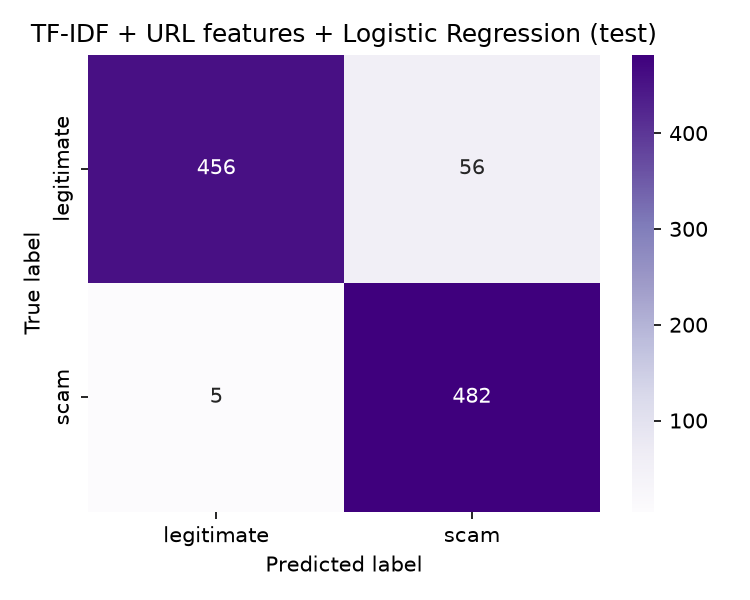
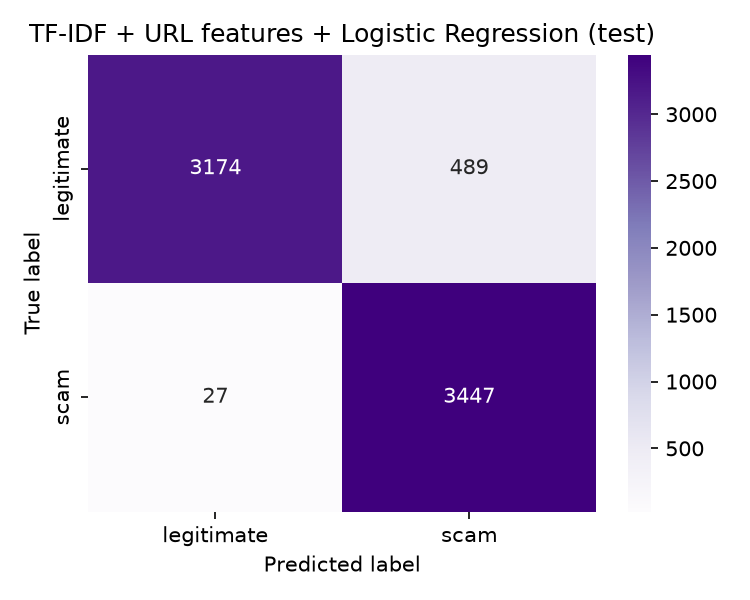
Report full-corpus LLM chat-register rewrite metrics (71,370 rows, C=0.25).

diff --git a/README.md b/README.md
@@ -223,7 +223,7 @@ uv run ruff check scripts src tests
 
 `rewrite_chat_register_llm.py` is the intent-preserving path (`rewrite_method = llm_intent_v1` when the model writes a real DM, `rule_based_v1_fallback` when it refuses twice). A local Ollama model (default **llama3.2:latest**, Llama 3.2 3B instruct, already pulled on this machine) reads each source message and writes a new 1–3 sentence WhatsApp/iMessage/DM with the same intent, facts, and binary label. Target length is about 40–600 characters of chat prose (`num_predict=400`; the LLM-only cap is 600). URLs may make the stored DM longer and are never sliced. This is not header-stripping plus truncation. Python post-conditions re-attach any original URL the model omitted (verbatim; no shorten/resolve/replace). Legitimate rows cannot gain phishing verbs that were absent from the source. Llama safety refusals are retried once with a research/register-only prompt, then that row falls back to `rule_based_v1` so labeled scams are not dropped. Refusal strings are never stored as training text. The locked file `data/chat_eval/chat_style_eval_v1.csv` is never read, rewritten, or merged. Corpus text is sent only to `http://127.0.0.1:11434` (WSL2 Ollama); cloud LLM APIs are refused.
 
-Checkpointing uses `data/processed_chat_llm/_rewrite_checkpoint.sqlite` so a crash can `--resume` without redoing finished rows. Runtime on this WSL2 box (RTX 4060 8GB, llama3.2:latest): ~0.4–0.8s/row after GPU warmup. Full processed corpora (~71k rows) ≈ 8–12 hours; default still attempts the full set. `--limit N` is a smoke run. `--stratified-sample 10000` is a label+source-stratified subset. Reported metrics below used that 10k sample (`random_state=42`) with the refusal-fallback path. Every non-empty source row was kept through the LLM or fallback (`llm_failed=0`); exact-text dedup dropped 13 rows (**9,987** left: 9,898 `llm_intent_v1`, 89 `rule_based_v1_fallback`). A crash at 5,300 rows was resumed from the SQLite sidecar. The previous 10k pass stored some refusals as `status=ok` and later filtered 1,577 of them at CSV write (8,337 rows); that cull is gone.
+Checkpointing uses `data/processed_chat_llm/_rewrite_checkpoint.sqlite` so a crash can `--resume` without redoing finished rows. Runtime on this WSL2 box (RTX 4060 8GB, llama3.2:latest): ~0.4–0.8s/row after GPU warmup. Full processed corpora (~71k rows) ≈ 8–12 hours per uninterrupted pass; this full run was resumed twice (10k sample → stop near 16k → finish). `--limit N` is a smoke run. `--stratified-sample 10000` is a label+source-stratified subset. Reported metrics below used the **full** processed set with the refusal-fallback path: 71,813 in, `dropped_empty=0`, `llm_failed=1`, then exact-text dedup dropped 442 rows (**71,370** left: 36,629 legitimate / 34,741 scam; 70,860 `llm_intent_v1`, 510 `rule_based_v1_fallback`). Checkpoint before dedup: 71,170 `llm_ok` and 642 `llm_refused_then_fallback`. See `ml/reports/rewrite_chat_register_llm_log.json`. Refusals no longer cull labeled scams.
 
 `train_baseline.py` defaults to `data/processed_chat_llm`. Pass `--processed-dir data/processed_chat` for rule_based_v1 or `--processed-dir data/processed` for original email/SMS. It takes a stratified 70% train / 20% validation / 10% test split (`random_state=42`), fits TF-IDF + local URL features + `LogisticRegression` on TRAIN only, searches `C ∈ {0.25, 1.0, 4.0}` and `predict_proba[:, scam]` thresholds `0.30, 0.35, …, 0.70` on VALIDATION only, **maximizes scam recall subject to legitimate recall ≥ 0.85** (at most ~15% of real ham warned), freezes those choices, and scores TEST once. Reported numbers in `reports/baseline_metrics.json` are TEST; `reports/val_metrics.json` is the audit of the operating point. Use `--no-tune-threshold` to keep `C=1.0` and threshold `0.5`. `live_url_reputation` remains false.
 
@@ -267,43 +267,47 @@ The baseline and DistilBERT tracks report precision, recall, F1, confusion matri
 
 ### TF-IDF + local URL features + Logistic Regression (current)
 
-Training text is the `llm_intent_v1` rewrite of UCI SMS Spam, Enron-Spam, SpamAssassin, Nazario phishing, and the Kaggle phishing-email compilation, with `rule_based_v1_fallback` only on rows where Llama refused twice. Local Ollama **llama3.2:latest** (Llama 3.2 3B instruct, already pulled) paraphrased each source into a new WhatsApp/iMessage/DM with the same intent, facts, and binary label (`num_predict=400`, LLM cap 600 characters of prose; URLs extra and never sliced). This is not header-stripping plus truncation. Python post-conditions copy every original URL character-for-character (the rewrite log records 1,226 URL re-attachments; every original URL still appears in the stored DM). Labels are never flipped. `data/chat_eval/chat_style_eval_v1.csv` is never read. Assistant refusals ("I cannot write a message that could be used in a scam") are retried, then rewritten with `rule_based_v1` for that row; they are never stored as training DMs.
+Training text is the `llm_intent_v1` rewrite of UCI SMS Spam, Enron-Spam, SpamAssassin, Nazario phishing, and the Kaggle phishing-email compilation, with `rule_based_v1_fallback` only on rows where Llama refused twice. Local Ollama **llama3.2:latest** (Llama 3.2 3B instruct, already pulled) paraphrased each source into a new WhatsApp/iMessage/DM with the same intent, facts, and binary label (`num_predict=400`, LLM cap 600 characters of prose; URLs extra and never sliced). This is not header-stripping plus truncation. Python post-conditions copy every original URL character-for-character (13,188 URL-bearing rows all still contain every original URL; 8,801 needed a Python append). Labels are never flipped. `data/chat_eval/chat_style_eval_v1.csv` is never read. Assistant refusals ("I cannot write a message that could be used in a scam") are retried, then rewritten with `rule_based_v1` for that row; they are never stored as training DMs.
 
-The default CLI still attempts the full processed corpora (~71,813 rows). These reported numbers used `--stratified-sample 10000` (`random_state=42`) because a full GPU run is ~8–12 hours. After exact-text dedup only: **9,987** rows in `data/processed_chat_llm/` (5,121 legitimate / 4,866 scam; 9,898 LLM + 89 fallback). Checkpoint totals before dedup: 9,910 `llm_ok` and 90 `llm_refused_then_fallback` (`llm_failed=0`, `dropped_empty=0`). See `ml/reports/rewrite_chat_register_llm_log.json`. Refusals no longer cull labeled scams (the previous 10k pass dropped 1,577 refusal strings at CSV write and kept 8,337 rows, which was ham-heavy because explicit scams were the rows Llama refused).
+These reported numbers used the **full** processed corpora (71,813 source rows → **71,370** training rows after one `llm_failed` and 442 exact-text duplicates). A 10k stratified sample was trained first; the full rewrite was resumed from that checkpoint (stop near progress 16k, then finished). See `ml/reports/rewrite_chat_register_llm_log.json`.
 
 The classifier is unchanged: `FeatureUnion(TfidfVectorizer(unigrams+bigrams, sublinear_tf), StandardScaler(URL features))` → `LogisticRegression(class_weight="balanced")`. URL features are on-device lexical/structural only: `has_url`, `url_count`, `uses_https`, `host_is_ip`, `has_at_sign`, `num_dots`, `num_hyphens`, `num_digits`, `url_length`, `path_length`, `num_subdomains`, `is_known_shortener` (frozen list: bit.ly, t.co, tinyurl, goo.gl, ow.ly, …), `suspicious_tld` (frozen list), `path_has_login_verify_update_password_keywords`, `punycode_xn`, `digits_in_host`, plus max/mean aggregates. There is **no live URL reputation**: no HTTP fetch, no shortener resolve, no VirusTotal / Safe Browsing / PhishTank. A message with no URL gets a zero URL vector (`has_url=0`); the text model still runs. A present https link is not automatic evidence of a scam.
 
-Stratified 70/20/10 split (`random_state=42`): 6,990 train / 1,998 validation / 999 test. Fit on TRAIN only. On VALIDATION, search `C ∈ {0.25, 1.0, 4.0}` and decision thresholds `0.30 … 0.70` (step 0.05). **Selection rule:** maximize scam recall subject to legitimate recall ≥ 0.85 (warn on at most ~15% of real ham; a few false alarms are acceptable, flooding ham is not). If that floor is infeasible, pick the point with best scam F1 and say so. Chosen operating point (`ml/reports/val_metrics.json`): **C = 4.0**, **threshold = 0.30**, reason `max_scam_recall_subject_to_legit_recall_floor` (floor feasible; validation legitimate recall 0.879, scam recall 0.978). Those choices are frozen, then TEST is scored once (`ml/reports/baseline_metrics.json`):
+Stratified 70/20/10 split (`random_state=42`): 49,958 train / 14,275 validation / 7,137 test. Fit on TRAIN only. On VALIDATION, search `C ∈ {0.25, 1.0, 4.0}` and decision thresholds `0.30 … 0.70` (step 0.05). **Selection rule:** maximize scam recall subject to legitimate recall ≥ 0.85 (warn on at most ~15% of real ham; a few false alarms are acceptable, flooding ham is not). If that floor is infeasible, pick the point with best scam F1 and say so. Chosen operating point (`ml/reports/val_metrics.json`): **C = 0.25**, **threshold = 0.30**, reason `max_scam_recall_subject_to_legit_recall_floor` (floor feasible; validation legitimate recall 0.869, scam recall 0.988). On the earlier 10k sample the same rule had picked C=4.0; with the full corpus C=0.25 still meets the ham-recall floor and wins on scam recall. Those choices are frozen, then TEST is scored once (`ml/reports/baseline_metrics.json`):
 
 | Class | Precision | Recall | F1 |
 | --- | --- | --- | --- |
-| legitimate | 0.989 | 0.891 | 0.937 |
-| scam | 0.896 | 0.990 | 0.940 |
+| legitimate | 0.992 | 0.867 | 0.925 |
+| scam | 0.876 | 0.992 | 0.930 |
 
 ![Baseline confusion matrix](ml/reports/confusion_matrix.png)
 
-TEST confusion matrix (rows = true, columns = predicted, order `[legitimate, scam]`): `[[456, 56], [5, 482]]` — 56 false positives out of 512 legitimate test rows and 5 missed scams out of 487 scam test rows.
+TEST confusion matrix (rows = true, columns = predicted, order `[legitimate, scam]`): `[[3174, 489], [27, 3447]]` — 489 false positives out of 3,663 legitimate test rows and 27 missed scams out of 3,474 scam test rows.
 
-**Threshold reasoning:** the product UX is a non-blocking warning, so missed scams are costlier than extra warnings, but most ordinary messages must still go through unwarned. The previous legitimate-*precision* floor (≥ 0.90) only required that "predicted legitimate" be trustworthy; it was feasible at C=0.25 / threshold=0.30 while warning on ~34% of in-domain ham and 86/100 locked chat ham. Switching the VAL floor to legitimate *recall* ≥ 0.85 rejects that over-regularized point. C=4.0 at the same threshold 0.30 still meets the ham-recall floor (VAL 0.879) and keeps scam recall high (VAL 0.978, TEST 0.990). TEST legitimate recall is 0.891 (56 extra warnings). Validation metrics are reported separately so this search stays auditable; TEST was not used to pick C or the threshold. The locked 200-row chat eval set was not used either.
+**Threshold reasoning:** the product UX is a non-blocking warning, so missed scams are costlier than extra warnings, but most ordinary messages must still go through unwarned. The previous legitimate-*precision* floor (≥ 0.90) only required that "predicted legitimate" be trustworthy; it was feasible at C=0.25 / threshold=0.30 while warning on ~34% of in-domain ham and 86/100 locked chat ham. Switching the VAL floor to legitimate *recall* ≥ 0.85 rejects that over-warning point when a higher-C model still catches scams. On the **full** LLM-DM set, C=0.25 at threshold 0.30 is the feasible point with best scam recall (VAL 0.988, TEST 0.992) while keeping ham recall at 0.869 (TEST 0.867, 489/3,663 extra warnings — still under ~15%). Validation metrics are reported separately so this search stays auditable; TEST was not used to pick C or the threshold. The locked 200-row chat eval set was not used either.
 
-**Comparison vs previous 8,337-row LLM-DM point** (same VAL rule, C=4.0, threshold=0.30, refusals dropped): TEST scam recall 0.990 vs 0.975; scam precision 0.896 vs 0.882; legitimate recall 0.891 vs 0.918. Fewer missed scams (5/487 vs 8/323) after keeping refused scam rows via retry+fallback. Ham false positives rose (56/512 vs 42/511) because the new 10k set is class-balanced (4,866 scam / 5,121 ham) instead of ham-heavy. Chat-eval went from 96/100 scams caught and 43/100 ham warned to **99/100** scams caught and **56/100** ham warned.
+**Comparison vs 9,987-row LLM-DM sample** (same VAL rule, C=4.0, threshold=0.30): TEST scam recall 0.992 vs 0.990; scam precision 0.876 vs 0.896; legitimate recall 0.867 vs 0.891. Full-corpus + C=0.25 catches a few more scams and warns on more in-domain ham. Chat-eval went from 99/100 scams and 56/100 ham warned to **100/100** scams and **70/100** ham warned.
 
-**Comparison vs previous LLM-DM precision-floor point** (8,337 rows, C=0.25, threshold=0.30, legit-*precision* floor): TEST scam recall 0.990 vs 0.994; scam precision 0.896 vs 0.647; legitimate recall 0.891 vs 0.658.
+**Comparison vs previous 8,337-row LLM-DM point** (refusals dropped, C=4.0, threshold=0.30): TEST scam recall 0.992 vs 0.975. Refusals no longer cull labeled scams.
 
-**Comparison vs `rule_based_v1` TEST** (C=4.0, threshold=0.30, 58,377 rows): scam recall 0.990 vs 0.996; scam precision 0.896 vs 0.968; legitimate recall 0.891 vs 0.976. Intent-preserving generation plus the ham-recall floor no longer wrecks in-domain precision the way the precision-floor point did.
+**Comparison vs previous LLM-DM precision-floor point** (8,337 rows, C=0.25, threshold=0.30, legit-*precision* floor): TEST scam recall 0.992 vs 0.994; scam precision 0.876 vs 0.647; legitimate recall 0.867 vs 0.658.
+
+**Comparison vs `rule_based_v1` TEST** (C=4.0, threshold=0.30, 58,377 rows): scam recall 0.992 vs 0.996; scam precision 0.876 vs 0.968; legitimate recall 0.867 vs 0.976. The ham-recall floor still holds; chat-eval is the remaining false-alarm problem.
 
 ### Out-of-domain check: locked 200-row chat-style eval set
 
-`data/label-schema.yaml`'s `evaluation_policy` reserves `ml/data/chat_eval/chat_style_eval_v1.csv` (200 hand-authored rows: 100 legitimate, 100 scam) exclusively for evaluation. `scripts/evaluate_chat_style_eval.py` fits the same pipeline on TRAIN+VAL of `processed_chat_llm` (8,988 rows; in-domain TEST stays held out) and only ever calls `.predict` / `predict_proba` on the 200 rows, using the frozen C=4.0 and threshold=0.30. It does not retune on this file (`ml/reports/chat_style_eval_metrics.json`):
+`data/label-schema.yaml`'s `evaluation_policy` reserves `ml/data/chat_eval/chat_style_eval_v1.csv` (200 hand-authored rows: 100 legitimate, 100 scam) exclusively for evaluation. `scripts/evaluate_chat_style_eval.py` fits the same pipeline on TRAIN+VAL of `processed_chat_llm` (64,233 rows; in-domain TEST stays held out) and only ever calls `.predict` / `predict_proba` on the 200 rows, using the frozen C=0.25 and threshold=0.30. It does not retune on this file (`ml/reports/chat_style_eval_metrics.json`):
 
 | Class | Precision | Recall | F1 |
 | --- | --- | --- | --- |
-| legitimate | 0.978 | 0.440 | 0.607 |
-| scam | 0.639 | 0.990 | 0.776 |
+| legitimate | 1.000 | 0.300 | 0.462 |
+| scam | 0.588 | 1.000 | 0.741 |
 
-Confusion matrix (rows = true, columns = predicted, order `[legitimate, scam]`): `[[44, 56], [1, 99]]` — 56 false positives out of 100 ordinary chat messages, and 1 missed scam out of 100 hand-authored scam-style chat messages.
+Confusion matrix (rows = true, columns = predicted, order `[legitimate, scam]`): `[[30, 70], [0, 100]]` — 70 false positives out of 100 ordinary chat messages, and 0 missed scams out of 100 hand-authored scam-style chat messages.
 
-**Did generative rewrite help OOD?** Chat-eval scam recall is **0.990**, above `rule_based_v1`'s **0.560**, above the original Slice 3 80-row figure of **0.800**, and above the previous 8,337-row LLM-DM figure of **0.960**. False alarms are **56/100**, worse than that previous 43/100 but still far below **86/100** at the legit-*precision* floor. That is "catch almost every scam, warn on more than half of ham" — still too noisy for a shipping warning. In-domain TEST is usable (scam recall 0.990, 56/512 ham warned). Closing the remaining chat false-alarm gap still wants a model suited to short informal text (DistilBERT, A6), **not** fitting or retuning on this locked file.
+**Did generative rewrite help OOD?** Chat-eval scam recall is **1.000**, above `rule_based_v1`'s **0.560**, above the original Slice 3 80-row figure of **0.800**, and above the 10k LLM-DM figure of **0.990**. False alarms are **70/100**, noisier than the 10k C=4.0 point (56/100) because the same VAL rule now selects C=0.25 on the full set. That is "catch every locked chat scam, warn on 70% of ordinary DMs" — still too noisy for a shipping warning. In-domain TEST is usable (scam recall 0.992, 489/3,663 ham warned). Closing the remaining chat false-alarm gap still wants a model suited to short informal text (DistilBERT, A6), **not** fitting or retuning on this locked file.
+
+Previous 9,987-row LLM-DM chat-eval (C=4.0, threshold=0.30): legitimate P/R/F1 0.978 / 0.440 / 0.607; scam 0.639 / 0.990 / 0.776; matrix `[[44, 56], [1, 99]]`.
 
 Previous 8,337-row LLM-DM chat-eval (C=4.0, threshold=0.30, refusals dropped): legitimate P/R/F1 0.934 / 0.570 / 0.708; scam 0.691 / 0.960 / 0.803; matrix `[[57, 43], [4, 96]]`.
 
